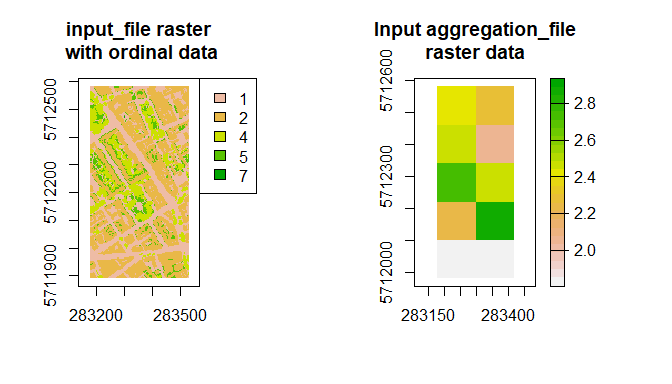
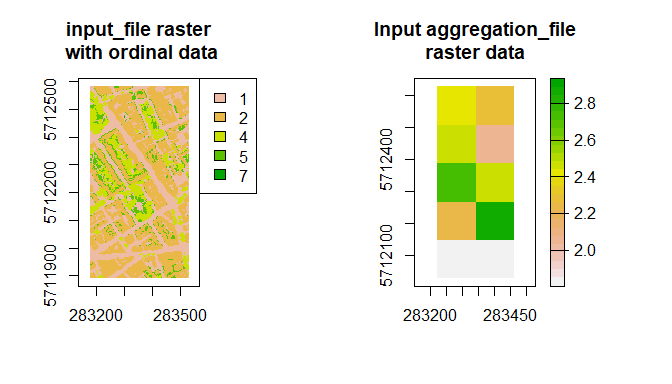
readme

diff --git a/README.md b/README.md
@@ -80,13 +80,13 @@ the data
 
     head(aggregated_data)
 
-    ##   ID     fpx_1     fpx_2     fpx_4      fpx_5 npx
-    ## 1  1 0.0000000 0.0000000 0.0000000 0.00000000   0
-    ## 2  2 0.0000000 0.0000000 0.0000000 0.00000000   0
-    ## 3  3 0.0000000 0.0000000 0.0000000 0.00000000   0
-    ## 4  4 0.0000000 0.0000000 0.0000000 0.00000000   0
-    ## 5  5 0.3411765 0.2235294 0.3705882 0.06470588 170
-    ## 6  6 0.2729412 0.5811765 0.1152941 0.03058824 425
+    ##   ID     fpx_1 npx     fpx_2     fpx_4      fpx_5
+    ## 1  1 0.0000000   0 0.0000000 0.0000000 0.00000000
+    ## 2  2 0.0000000   0 0.0000000 0.0000000 0.00000000
+    ## 3  3 0.0000000   0 0.0000000 0.0000000 0.00000000
+    ## 4  4 0.0000000   0 0.0000000 0.0000000 0.00000000
+    ## 5  5 0.3411765 170 0.2235294 0.3705882 0.06470588
+    ## 6  6 0.2729412 425 0.5811765 0.1152941 0.03058824
 
 You can also do the aggreagation using rasters, where `aggregation_file`
 raster has lower spatial resolution than `input_file`.
@@ -94,12 +94,12 @@ raster has lower spatial resolution than `input_file`.
     par(mfrow = c(1, 2))
     plot(rast("data/sample/input/sample_input_raster_ordinal.tif"), main = "input_file raster\n with ordinal data")
 
-    plot(rast("data/sample/input/aggregation_file.tif"), main = "Input aggregation_file\nraster data")
+    plot(rast("data/sample/input/aggregation_file_shifted.tif"), main = "Input aggregation_file\nraster data")
 
 ![](README_files/figure-markdown_strict/unnamed-chunk-7-1.png)
 
     aggregated_data <- RVaggregator(input_file = "data/sample/input/sample_input_raster_ordinal.tif",
-                                    aggregation_file = "data/sample/input/aggregation_file.tif",
+                                    aggregation_file = "data/sample/input/aggregation_file_shifted.tif",
                                     aggregation_type = "fraction",
                                     output_directory = "data/sample/output",
                                     poly_chunk_size = 500)
@@ -118,7 +118,7 @@ dimension with names of stats
 
     names(aggregated_data)
 
-    ## [1] "ID"    "fpx_1" "fpx_2" "fpx_4" "fpx_5" "npx"
+    ## [1] "ID"    "fpx_1" "npx"   "fpx_2" "fpx_4" "fpx_5" "fpx_7"
 
 Plot the second variable of the `aggregated_data`
 
@@ -129,6 +129,36 @@ Plot the second variable of the `aggregated_data`
     plot(aggregated_data[[2]], main = "Aggregated data,\nsecond stat")
 
 ![](README_files/figure-markdown_strict/unnamed-chunk-9-1.png)
+
+Poly\_chunk\_size
+-----------------
+
+This parameter is most important and defines memory usage. Assuming
+input\_file resolution is &gt;= 1 m, the number of data points
+`n_data_points` loaded into memory at one time follows:
+
+`n_data_points = ((poly_chunk_size*aggregation_dataset_area)/input_file_cell_area)*number_of_statistics`
+
+where `aggregation_dataset_area` is the area of the aggregating polygon
+or cell (m^2), `input_file_cell_area` is the resolution of the input
+raster (m^2) and `number_of_statistics` is the number of aggregating
+statistics used. For `aggregation_type = "fraction"`,
+`number_of_statistics` is the number of ordinal classes + 2. For
+`aggregation_type = "distribution"`, it is set by the number of
+functions in `getManualFunctions()` + 2.
+
+With `poly_chunk_size` set to 50, `aggregation_dataset_area` 22500 m^2
+(a grid of 150 x 150 m polygons), `input_file_cell_area` 25 m^2 (5 m
+horizontal, 5 m vertical resolution), with an `input_file` a land cover
+map with 5 classes, then:
+
+`n_data_points = ((50 * 22500) / 25) * (5 + 2) = 315000` points loaded
+at any one time
+
+`n_data_points` increases when: cell size decreases,
+`aggregation_dataset_area` increases, `poly_chunk_size` increases,
+`number_of_statistics` increases. Computation time increases as
+`poly_chunk_size` decreases (R overhead).
 
 Command line use
 ----------------
